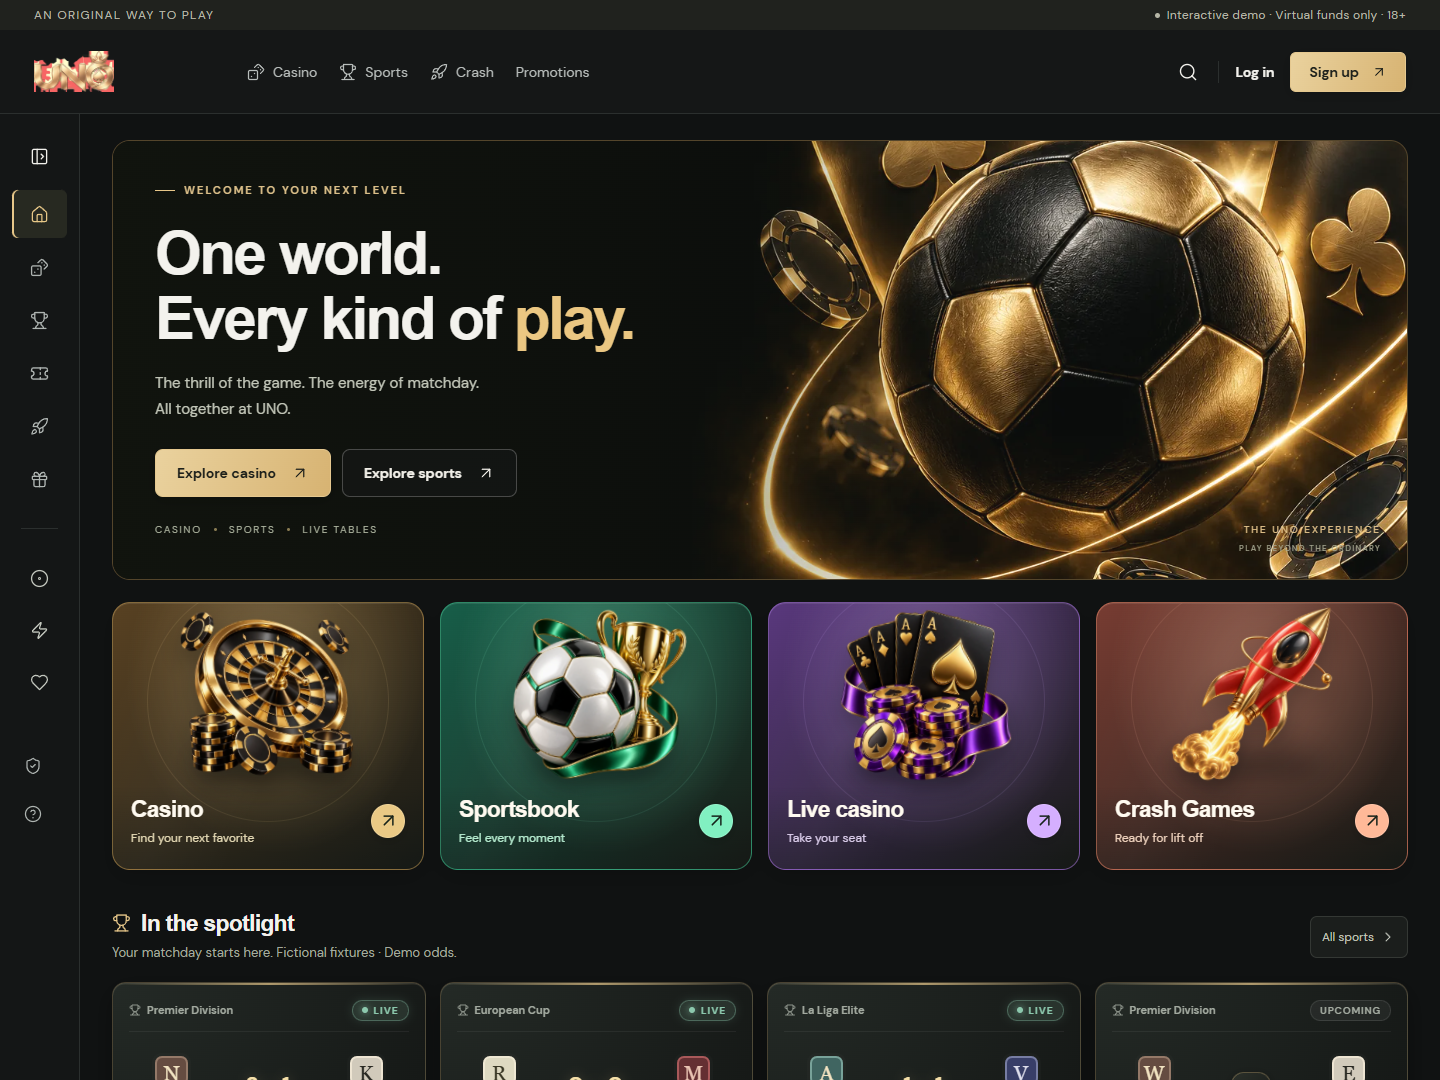
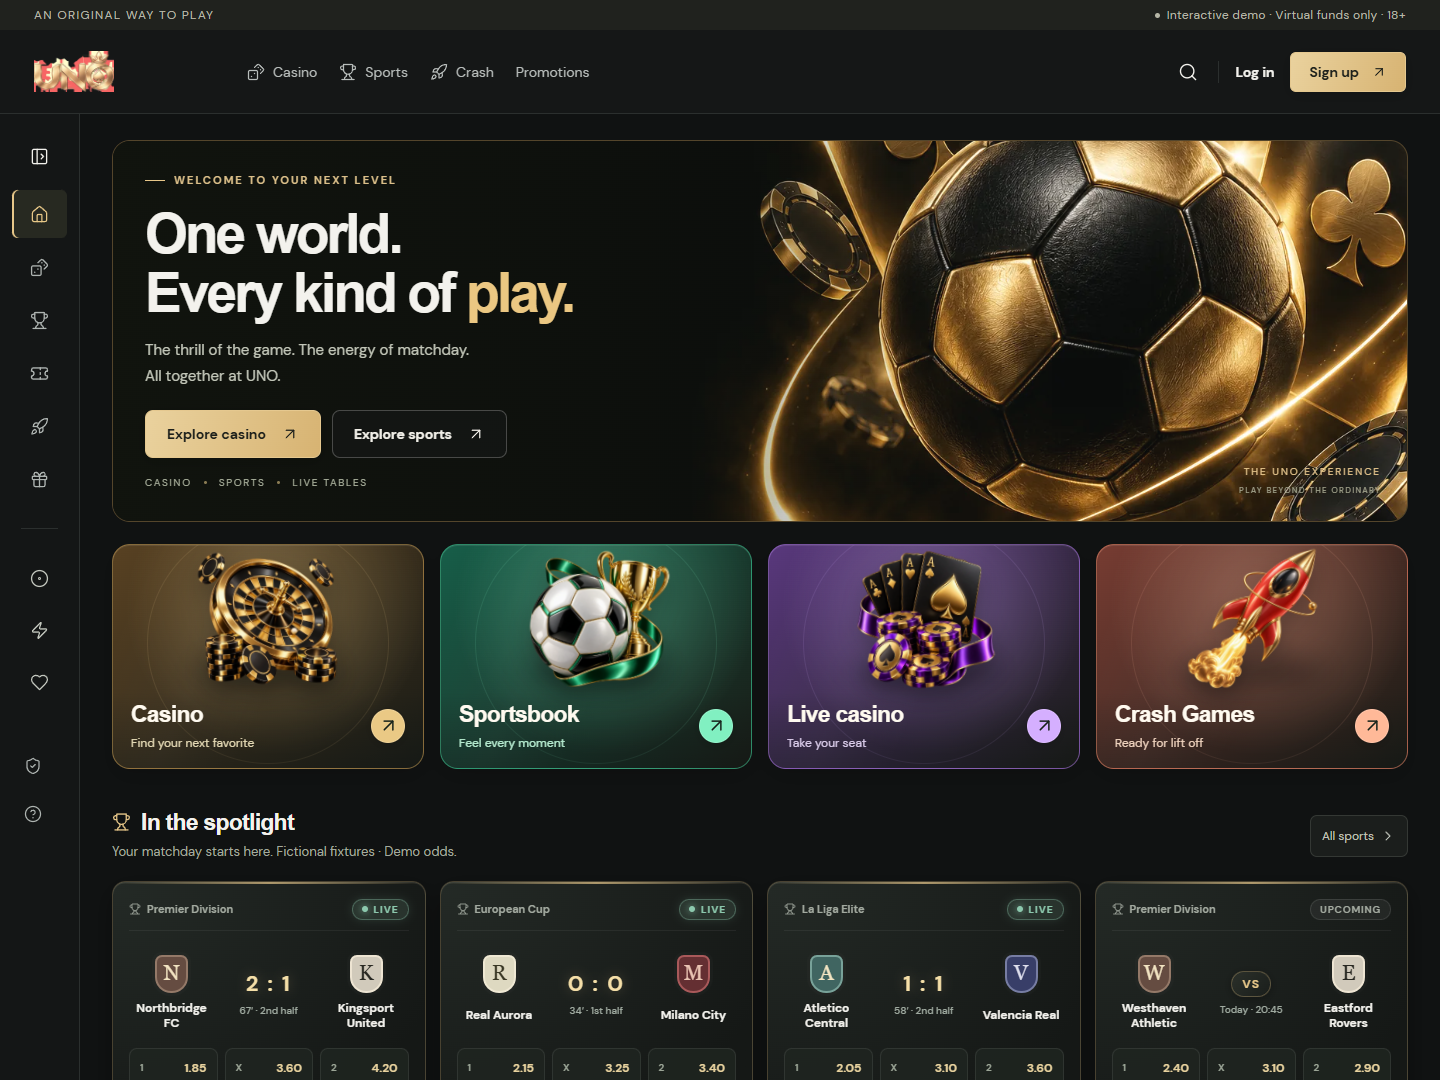
Reduce homepage hero and category tile heights across screen sizes

diff --git a/src/experience.css b/src/experience.css
@@ -1,20 +1,20 @@
 /* UNO art direction: layered gold, stadium green, and a violet live lounge. */
 :root { --gold:#e7c789; --experience-ease:cubic-bezier(.22,1,.36,1); }
-.uno-hero { position:relative; isolation:isolate; overflow:hidden; min-height:440px; border:1px solid #54452b; border-radius:18px; background:#0a0c0b; }
+.uno-hero { position:relative; isolation:isolate; overflow:hidden; min-height:365px; border:1px solid #54452b; border-radius:18px; background:#0a0c0b; }
 .uno-hero:after { content:'';position:absolute;inset:0;pointer-events:none;background:linear-gradient(90deg,#11140eef 0%,#11140e8a 35%,transparent 65%);z-index:1; }
 .uno-hero-art {position:absolute;inset:-9% -9% -10% 17%;z-index:0;mix-blend-mode:screen;animation:hero-arrive 1.4s var(--experience-ease) both,hero-float 4.8s 1.4s ease-in-out 1;transform-origin:70% 60%;}
 .uno-hero-art img{width:100%;height:100%;object-fit:cover;object-position:right center;display:block;}
 .hero-orbit{position:absolute;inset:0;z-index:2;pointer-events:none;overflow:hidden;}
 .hero-orbit:after{content:'';position:absolute;width:22%;height:160%;top:-30%;left:-50%;transform:rotate(25deg);background:linear-gradient(90deg,transparent,#f2d49912,transparent);animation:gold-sweep 4.5s 1s var(--experience-ease) 1;}
-.uno-hero-copy{position:relative;z-index:3;padding:42px;max-width:670px;animation:copy-arrive .8s var(--experience-ease) both;}
+.uno-hero-copy{position:relative;z-index:3;padding:32px;max-width:630px;animation:copy-arrive .8s var(--experience-ease) both;}
 .uno-eyebrow{display:flex;align-items:center;gap:9px;font-size:11px;font-weight:650;letter-spacing:2px;color:#dbbf89;}
 .uno-eyebrow>span{display:block;width:20px;height:1px;background:var(--gold);}
-.uno-hero h1{font-size:clamp(40px,4.2vw,65px);line-height:1.07;font-weight:750;letter-spacing:-2.7px;margin:24px 0 21px;}
+.uno-hero h1{font-size:clamp(38px,3.8vw,58px);line-height:1.07;font-weight:750;letter-spacing:-2.7px;margin:18px 0 16px;}
 .uno-hero h1 em{font-style:normal;color:#ebc782;}
 .uno-hero-copy>p{max-width:390px;font-size:15px;color:#c2c6b8;line-height:1.7;}
-.uno-hero-actions{display:flex;gap:11px;margin-top:27px;}
+.uno-hero-actions{display:flex;gap:11px;margin-top:21px;}
 .uno-hero-actions>a{min-height:48px;font-size:14px;border-radius:8px;padding:13px 21px;}
-.hero-discovery{display:flex;align-items:center;gap:12px;color:#a9b09c;font-size:10px;letter-spacing:1.7px;margin-top:26px;}
+.hero-discovery{display:flex;align-items:center;gap:12px;color:#a9b09c;font-size:10px;letter-spacing:1.7px;margin-top:18px;}
 .hero-discovery i{width:3px;height:3px;border-radius:50%;background:#887a52;}
 .hero-art-caption{position:absolute;right:26px;bottom:26px;z-index:3;display:flex;flex-direction:column;gap:7px;text-align:right;font-size:10px;letter-spacing:2px;color:#e3c38b;}
 .hero-art-caption>span:last-child{font-size:8px;color:#a7a891;letter-spacing:1.4px;}
@@ -68,18 +68,18 @@
 @keyframes favorite-pop{50%{transform:scale(1.3)}100%{transform:scale(1)}}
 @keyframes dialog-arrive{from{opacity:0;transform:translateY(12px) scale(.985)}to{opacity:1;transform:none}}
 @keyframes slip-arrive{from{opacity:0;translate:0 12px}to{opacity:1;translate:0 0}}
-@media(min-width:1600px){.uno-hero{min-height:470px;}.uno-hero-copy{padding:50px;}.experience-card{min-height:220px;}.featured-match{min-height:370px;}}
-@media(max-width:1200px){.uno-hero-copy{padding:34px;max-width:570px;}.uno-hero h1{font-size:49px;}.uno-hero{min-height:414px;}.uno-hero-art{inset:0 -14% 0 20%;}.hero-art-caption{display:none;}.experience-copy{padding:23px 18px;max-width:90%;}.experience-copy h2{font-size:24px;}.experience-copy p{max-width:150px;}.experience-kicker{font-size:9px;letter-spacing:1px;}.experience-symbol{right:12px;top:15px;width:29px;height:29px;}.experience-symbol svg{width:17px;}.spotlight-layout{grid-template-columns:1fr;}.featured-match{min-height:330px;}.featured-match-content{padding:25px 30px;}.featured-teams{margin:24px auto;width:85%;max-width:540px;}.featured-odds button{flex-direction:row;align-items:center;min-height:50px;}.spotlight-secondary{grid-template-columns:1fr 1fr;}.spotlight-secondary .teams{grid-template-columns:1fr 1fr 1fr;}.spotlight-secondary .score{grid-column:auto;grid-row:auto;flex-direction:column;gap:7px;}.spotlight-secondary .match-top{min-height:0;}.matchday-link{display:none;}.sports-matches{grid-template-columns:1fr;}}
-@media(max-width:980px){.menu-scrim{display:block;position:fixed;inset:72px 0 0;background:#0009;backdrop-filter:blur(3px);z-index:38;}.sidebar.menu-open{z-index:40;min-height:0;}.uno-hero-art{inset:0 -11% 0 18%;}.uno-hero-copy{padding:35px 30px;}.uno-hero h1{font-size:49px;}.experience-copy h2{font-size:24px;}.experience-grid{gap:12px;}.experience-copy p{font-size:12px;}.experience-symbol{display:none;}.experience-kicker{font-size:8px;}.section-heading h2{font-size:23px;}.spotlight-layout{grid-template-columns:1.2fr 1fr;gap:14px;}.featured-match-content{padding:20px;}.featured-teams{width:100%;margin:37px 0 27px;}.featured-crest{width:49px;height:61px;font-size:27px;}.featured-score strong{font-size:33px;}.featured-teams h3{font-size:12px;}.featured-market{flex-direction:column;gap:5px;}.featured-odds button{flex-direction:column;align-items:flex-start;padding:10px;}.featured-odds button>span{font-size:9px;}.featured-match-top{font-size:11px;}.featured-live{font-size:8px;}.spotlight-secondary .teams{grid-template-columns:1fr 1fr;}.spotlight-secondary .score{grid-column:1/-1;grid-row:2;flex-direction:row;}.matchday-link{display:flex;padding:12px;font-size:12px;}.spotlight-secondary{gap:9px;}.spotlight-secondary .match-card{padding:15px 9px;}.spotlight-secondary .match-top{min-height:40px;}.spotlight-secondary .odds-row button{padding:7px 5px;font-size:11px;}.spotlight-secondary .odds-row button strong{font-size:11px;}.spotlight-secondary .match-demo{font-size:9px;}}
+@media(min-width:1600px){.uno-hero{min-height:390px;}.uno-hero-copy{padding:36px;}.experience-card{min-height:220px;}.featured-match{min-height:370px;}}
+@media(max-width:1200px){.uno-hero-copy{padding:28px;max-width:550px;}.uno-hero h1{font-size:49px;}.uno-hero{min-height:360px;}.uno-hero-art{inset:0 -14% 0 20%;}.hero-art-caption{display:none;}.experience-copy{padding:23px 18px;max-width:90%;}.experience-copy h2{font-size:24px;}.experience-copy p{max-width:150px;}.experience-kicker{font-size:9px;letter-spacing:1px;}.experience-symbol{right:12px;top:15px;width:29px;height:29px;}.experience-symbol svg{width:17px;}.spotlight-layout{grid-template-columns:1fr;}.featured-match{min-height:330px;}.featured-match-content{padding:25px 30px;}.featured-teams{margin:24px auto;width:85%;max-width:540px;}.featured-odds button{flex-direction:row;align-items:center;min-height:50px;}.spotlight-secondary{grid-template-columns:1fr 1fr;}.spotlight-secondary .teams{grid-template-columns:1fr 1fr 1fr;}.spotlight-secondary .score{grid-column:auto;grid-row:auto;flex-direction:column;gap:7px;}.spotlight-secondary .match-top{min-height:0;}.matchday-link{display:none;}.sports-matches{grid-template-columns:1fr;}}
+@media(max-width:980px){.menu-scrim{display:block;position:fixed;inset:72px 0 0;background:#0009;backdrop-filter:blur(3px);z-index:38;}.sidebar.menu-open{z-index:40;min-height:0;}.uno-hero-art{inset:0 -11% 0 18%;}.uno-hero-copy{padding:28px;}.uno-hero h1{font-size:49px;}.experience-copy h2{font-size:24px;}.experience-grid{gap:12px;}.experience-copy p{font-size:12px;}.experience-symbol{display:none;}.experience-kicker{font-size:8px;}.section-heading h2{font-size:23px;}.spotlight-layout{grid-template-columns:1.2fr 1fr;gap:14px;}.featured-match-content{padding:20px;}.featured-teams{width:100%;margin:37px 0 27px;}.featured-crest{width:49px;height:61px;font-size:27px;}.featured-score strong{font-size:33px;}.featured-teams h3{font-size:12px;}.featured-market{flex-direction:column;gap:5px;}.featured-odds button{flex-direction:column;align-items:flex-start;padding:10px;}.featured-odds button>span{font-size:9px;}.featured-match-top{font-size:11px;}.featured-live{font-size:8px;}.spotlight-secondary .teams{grid-template-columns:1fr 1fr;}.spotlight-secondary .score{grid-column:1/-1;grid-row:2;flex-direction:row;}.matchday-link{display:flex;padding:12px;font-size:12px;}.spotlight-secondary{gap:9px;}.spotlight-secondary .match-card{padding:15px 9px;}.spotlight-secondary .match-top{min-height:40px;}.spotlight-secondary .odds-row button{padding:7px 5px;font-size:11px;}.spotlight-secondary .odds-row button strong{font-size:11px;}.spotlight-secondary .match-demo{font-size:9px;}}
 @media(max-width:700px){
  main{padding:17px 16px 0;}.topbar{padding:0 12px;}.topbar .brand-area{width:auto!important;gap:9px!important;}.topbar .brand-area img{height:34px!important;max-width:105px;}.top-actions{gap:5px;}.top-actions>.icon-button,.mobile-menu{width:40px;height:44px;}.login{min-height:44px;padding:8px;}.signup{min-height:40px;}.header-divider{display:none;}.menu-scrim{inset:65px 0 66px;}.sidebar.menu-open{width:min(280px,85vw);top:65px;bottom:calc(66px + env(safe-area-inset-bottom));}.sidebar nav>a,.sidebar>button{font-size:14px;min-height:46px;}
- .uno-hero{min-height:555px;border-radius:14px;background:#0d100d;display:flex;flex-direction:column;}.uno-hero:after{background:linear-gradient(180deg,#10130f 0%,#10130f 42%,#10130f00 67%),linear-gradient(0deg,#0c100d80,transparent 20%);}.uno-hero-copy{padding:29px 24px 0;max-width:none;}.uno-eyebrow{font-size:9px;letter-spacing:1.5px;gap:7px;}.uno-eyebrow>span{width:14px;}.uno-hero h1{font-size:44px;letter-spacing:-1.9px;line-height:1.09;margin:19px 0 17px;}.uno-hero-copy>p{font-size:14px;line-height:1.65;max-width:320px;}.desktop-break{display:none;}.uno-hero-actions{gap:9px;margin-top:21px;}.uno-hero-actions>a{padding:12px 13px;min-height:46px;gap:8px;font-size:12px;flex:1;white-space:nowrap;}.hero-discovery{font-size:9px;letter-spacing:1.3px;margin-top:20px;gap:11px;}.uno-hero-art{inset:auto -15% -20px -42%;height:330px;mix-blend-mode:screen;opacity:1;}.uno-hero-art img{object-fit:contain;object-position:right bottom;}.hero-art-caption{display:none;}.motion-toggle{top:auto;bottom:12px;right:12px;min-height:36px;font-size:9px;}.hero-orbit:after{width:35%;}.hero-orbit{z-index:2;}
+ .uno-hero{min-height:480px;border-radius:14px;background:#0d100d;display:flex;flex-direction:column;}.uno-hero:after{background:linear-gradient(180deg,#10130f 0%,#10130f 42%,#10130f00 67%),linear-gradient(0deg,#0c100d80,transparent 20%);}.uno-hero-copy{padding:24px 22px 0;max-width:none;}.uno-eyebrow{font-size:9px;letter-spacing:1.5px;gap:7px;}.uno-eyebrow>span{width:14px;}.uno-hero h1{font-size:38px;letter-spacing:-1.6px;line-height:1.09;margin:15px 0 12px;}.uno-hero-copy>p{font-size:14px;line-height:1.65;max-width:320px;}.desktop-break{display:none;}.uno-hero-actions{gap:9px;margin-top:21px;}.uno-hero-actions>a{padding:12px 13px;min-height:46px;gap:8px;font-size:12px;flex:1;white-space:nowrap;}.hero-discovery{font-size:9px;letter-spacing:1.3px;margin-top:16px;gap:11px;}.uno-hero-art{inset:auto -15% -20px -42%;height:275px;mix-blend-mode:screen;opacity:1;}.uno-hero-art img{object-fit:contain;object-position:right bottom;}.hero-art-caption{display:none;}.motion-toggle{top:auto;bottom:12px;right:12px;min-height:36px;font-size:9px;}.hero-orbit:after{width:35%;}.hero-orbit{z-index:2;}
  .experience-grid{grid-template-columns:1fr;gap:12px;margin:16px 0 31px;}.experience-card{min-height:145px;border-radius:12px;}.experience-copy{padding:20px;max-width:75%;}.experience-copy h2{font-size:25px;margin:8px 0 6px;}.experience-kicker{font-size:9px;letter-spacing:1.4px;}.experience-copy p{font-size:12px;max-width:205px;}.experience-link{position:absolute;bottom:18px;right:17px;gap:7px;font-size:11px;}.experience-art{inset:0 0 0 20%;background-size:300% 175%;}.experience-card:before{background:linear-gradient(90deg,#10130cf5,#10130c99 45%,#10130c0a 85%);}.experience-symbol{display:none;}.experience-emerald:before{background:linear-gradient(90deg,#0b1814f5,#0b181499 45%,#0b18140a 85%);}.experience-violet:before{background:linear-gradient(90deg,#171020f5,#17102099 45%,#1710200a 85%);}
  .section-heading{gap:12px;margin:29px 0 17px;align-items:center;}.section-heading h2{font-size:21px;line-height:1.25;}.section-heading p{font-size:12px;}.section-heading>a{font-size:11px;min-height:44px;padding:9px;}.section-kicker{font-size:9px;margin-bottom:9px;}.spotlight-section .section-heading h2{max-width:240px;}.spotlight-layout{grid-template-columns:1fr;gap:13px;}.featured-match{min-height:340px;border-radius:12px;}.featured-match-content{padding:20px 17px;}.featured-match-top{font-size:12px;}.featured-live{font-size:9px;}.featured-teams{width:100%;margin:29px 0 23px;gap:4px;}.featured-crest{width:48px;height:60px;font-size:27px;}.featured-teams h3{font-size:12px;}.featured-score strong{font-size:35px;}.featured-score>span{font-size:10px;}.featured-market{flex-direction:row;font-size:11px;align-items:center;}.featured-market small{font-size:9px;}.featured-odds{gap:7px;}.featured-odds button{min-height:59px;padding:10px;}.featured-odds button>span{font-size:9px;}.featured-odds button>strong{font-size:17px;}.spotlight-secondary{display:flex;overflow-x:auto;scroll-snap-type:x mandatory;padding-bottom:6px;gap:12px;scrollbar-width:thin;scrollbar-color:#536249 transparent;}.spotlight-secondary>div{min-width:270px;scroll-snap-align:start;flex:1;}.spotlight-secondary .match-card{padding:16px;}.spotlight-secondary .teams{grid-template-columns:1fr 1fr 1fr;}.spotlight-secondary .score{grid-column:auto;grid-row:auto;flex-direction:column;}.spotlight-secondary .match-top{min-height:0;}.spotlight-secondary .odds-row button{min-height:44px;padding:9px;}.spotlight-secondary .odds-row button strong{font-size:13px;}.spotlight-secondary .match-demo{font-size:11px;}.matchday-link{display:none;}
  .game-grid{gap:17px 10px!important;}.game-meta h3{font-size:12px!important;line-height:1.4!important;min-height:2.8em!important;}.game-meta>span{font-size:11px!important;}.game-art{border-radius:10px!important;}.favorite{width:44px!important;height:44px!important;right:0!important;top:0!important;background:transparent;backdrop-filter:none;}.favorite svg{filter:drop-shadow(0 1px 3px black);width:17px;height:17px;}.game-tag{font-size:8px!important;max-width:calc(100% - 39px);padding:3px 4px!important;top:7px!important;left:5px!important;}.hover-title{font-size:11px;}.hover-provider{font-size:9px;}.play-btn-circle{width:29px;height:29px;}.game-art:focus-visible .hover-title,.game-art:focus-visible .hover-provider{opacity:1;transform:none;}
  .lower-grid{gap:16px;margin-top:29px;}.live-feature,.offer-feature{min-height:257px;padding:27px;}.live-feature h2,.offer-feature h2{font-size:30px;}.live-feature p,.offer-feature p{font-size:14px;max-width:230px;}.live-feature .outline-button{min-height:44px;font-size:12px;}.text-link{min-height:44px;font-size:13px;margin-top:13px;}.leaderboard-card{padding:19px 15px;}.leaderboard-header h2{font-size:20px;}.leaderboard-tabs{width:100%;padding:3px;}.leaderboard-tabs>button{padding:9px 10px;flex:1;font-size:12px;}.leaderboard-table th,.leaderboard-table td{padding:13px 12px;}.leaderboard-table td{font-size:12px;}.leaderboard-table th{font-size:11px;}.activity-demo{font-size:11px;}
  .sport-picker{overflow-x:auto;padding-bottom:5px;}.sport-picker>button{min-height:46px;flex-shrink:0;}.tabs>button{min-height:44px;}.sports-toolbar select{min-height:44px;}.stake-presets>button{min-height:44px;font-size:13px;}.modal .icon-button{min-width:44px;min-height:44px;}.slip-selection>.icon-button{position:absolute;right:-5px;top:4px;}.slip-selection>strong{padding-right:30px;}.mobile-nav{padding-top:0;}.mobile-nav>a,.mobile-nav>button{font-size:11px;min-height:62px;}footer{padding-bottom:115px;}.footer-top{gap:15px;}.footer-top>button{min-height:44px;}.footer-bottom>span:last-child{white-space:normal;}.floating-slip{bottom:calc(78px + env(safe-area-inset-bottom));}
 }
-@media(max-width:380px){main{padding-left:12px;padding-right:12px;}.uno-hero-copy{padding:26px 20px 0;}.uno-hero h1{font-size:40px;}.uno-hero{min-height:550px;}.uno-hero-actions>a{font-size:11px;padding:12px 10px;}.topbar{padding:0 8px;}.topbar .brand-area{gap:3px!important;}.topbar .brand-area img{height:29px!important;}.top-actions{gap:2px;}.top-actions>.icon-button{width:35px;}.login{font-size:11px;padding:6px;}.signup{font-size:11px;padding:9px 10px;}.experience-copy p{max-width:180px;}.featured-score strong{font-size:31px;}.featured-market{align-items:flex-start;}.featured-market small{max-width:130px;text-align:right;}.featured-odds button{padding:9px 7px;}.section-heading h2{font-size:19px;}}
+@media(max-width:380px){main{padding-left:12px;padding-right:12px;}.uno-hero-copy{padding:23px 20px 0;}.uno-hero h1{font-size:36px;}.uno-hero{min-height:475px;}.uno-hero-actions>a{font-size:11px;padding:12px 10px;}.topbar{padding:0 8px;}.topbar .brand-area{gap:3px!important;}.topbar .brand-area img{height:29px!important;}.top-actions{gap:2px;}.top-actions>.icon-button{width:35px;}.login{font-size:11px;padding:6px;}.signup{font-size:11px;padding:9px 10px;}.experience-copy p{max-width:180px;}.featured-score strong{font-size:31px;}.featured-market{align-items:flex-start;}.featured-market small{max-width:130px;text-align:right;}.featured-odds button{padding:9px 7px;}.section-heading h2{font-size:19px;}}
 @media(hover:none){.game-art:hover{transform:none;}.game-art:hover .game-img{transform:none;}.game-art:hover .play-overlay{opacity:0;}.game-art:active{transform:scale(.97);}.experience-card:hover{transform:none;}}
 @media(prefers-reduced-motion:reduce){*,*:before,*:after{animation:none!important;transition:none!important;scroll-behavior:auto!important;}.uno-hero-art,.uno-hero-copy,.reveal{opacity:1!important;transform:none!important;}.motion-toggle{display:none;}}

diff --git a/src/platform-extras.css b/src/platform-extras.css
@@ -1,7 +1,7 @@
 /* UNO navigation, wallet, promotions and Crash Games. */
 .category-tiles{grid-template-columns:repeat(4,minmax(0,1fr));gap:16px}
-.category-object{height:180px}
-.category-label{padding:10px 18px 22px;gap:8px}
+.category-object{height:145px}
+.category-label{padding:8px 18px 16px;gap:8px}
 .category-label h2{font-size:23px}
 .category-label p{font-size:12px}
 .category-arrow{width:34px;height:34px}
@@ -121,12 +121,12 @@
  .sidebar-collapsed .sidebar nav>a{position:relative}
  .sidebar-collapsed .sidebar nav>a:focus-visible{outline-offset:0}
 }
-@media(max-width:1250px){.top-nav{gap:14px;font-size:13px}.topbar{gap:20px}.topbar .brand-area{width:110px;min-width:90px}.top-actions{gap:7px}.header-avatar{display:none}.header-wallet{padding:6px 9px}.header-wallet .coin-icon{display:none}.promotions-grid{grid-template-columns:repeat(2,minmax(0,1fr))}.restored-matches{grid-template-columns:repeat(2,minmax(0,1fr))}.category-label h2{font-size:20px}.category-label p{display:none}.category-object{height:150px}.category-label{padding:10px 14px 18px}.category-arrow{width:28px;height:28px}.category-arrow svg{width:17px}.crash-preview>div{padding:12px 16px 20px}.crash-preview h3{font-size:20px}.crash-preview>img{height:160px}.crash-grid{gap:12px}}
+@media(max-width:1250px){.top-nav{gap:14px;font-size:13px}.topbar{gap:20px}.topbar .brand-area{width:110px;min-width:90px}.top-actions{gap:7px}.header-avatar{display:none}.header-wallet{padding:6px 9px}.header-wallet .coin-icon{display:none}.promotions-grid{grid-template-columns:repeat(2,minmax(0,1fr))}.restored-matches{grid-template-columns:repeat(2,minmax(0,1fr))}.category-label h2{font-size:20px}.category-label p{display:none}.category-object{height:125px}.category-label{padding:8px 14px 14px}.category-arrow{width:28px;height:28px}.category-arrow svg{width:17px}.crash-preview>div{padding:12px 16px 20px}.crash-preview h3{font-size:20px}.crash-preview>img{height:160px}.crash-grid{gap:12px}}
 @media(max-width:980px){.sidebar-toggle{display:none}.sidebar-heading{min-height:20px}.top-nav>a:last-child{display:none}.header-divider{display:none}.crash-banner{padding:32px}.category-label h2{font-size:21px}.category-arrow{display:none}}
 @media(max-width:700px){
  .category-tiles{grid-template-columns:repeat(2,minmax(0,1fr));gap:12px;margin:18px 0 30px}
- .category-object{height:155px;margin:0 5px}
- .category-label{padding:2px 17px 18px;min-height:44px;align-items:center}
+ .category-object{height:125px;margin:0 5px}
+ .category-label{padding:2px 17px 14px;min-height:44px;align-items:center}
  .category-label h2{font-size:19px}
  .category-mobile-name{display:none}.category-desktop-name{display:inline}
  .category-arrow{display:grid;position:static;width:28px;height:28px}
@@ -170,6 +170,6 @@
  .crash-preview>img{height:150px}.crash-preview>div{padding:10px 15px 18px}.crash-preview h3{font-size:20px;margin-bottom:13px}.crash-preview>div>span:first-child{font-size:10px}.crash-play{font-size:11px;gap:5px}
  .crypto-wallet{padding:23px}.crypto-wallet>strong{font-size:36px}.account-identity{gap:9px}.account-identity div>span{font-size:10px}.account-status{font-size:9px}
 }
-@media(max-width:359px){.category-object{height:130px}.category-label{padding:2px 12px 15px}.category-label h2{font-size:17px}.category-arrow{width:24px;height:24px}.restored-matches{grid-template-columns:1fr}.restored-matches .teams{grid-template-columns:1fr 65px 1fr}.restored-matches .score{grid-column:2;grid-row:1;flex-direction:column}.restored-matches .odds-row button{flex-direction:row;gap:10px}.crash-preview h3{font-size:17px}.crash-play{font-size:10px}.deposit-asset{padding:12px;gap:9px}.deposit-asset>.offer-demo{display:none}}
+@media(max-width:359px){.category-object{height:110px}.category-label{padding:2px 12px 15px}.category-label h2{font-size:17px}.category-arrow{width:24px;height:24px}.restored-matches{grid-template-columns:1fr}.restored-matches .teams{grid-template-columns:1fr 65px 1fr}.restored-matches .score{grid-column:2;grid-row:1;flex-direction:column}.restored-matches .odds-row button{flex-direction:row;gap:10px}.crash-preview h3{font-size:17px}.crash-play{font-size:10px}.deposit-asset{padding:12px;gap:9px}.deposit-asset>.offer-demo{display:none}}
 @media(prefers-reduced-motion:reduce){.crash-banner>img,.promotion-art img,.crash-preview>img{animation:none!important;transition:none!important}}
 .motion-paused .crash-banner>img,.motion-paused .promotion-art img,.motion-paused .crash-preview>img{animation:none!important;transition:none!important}
